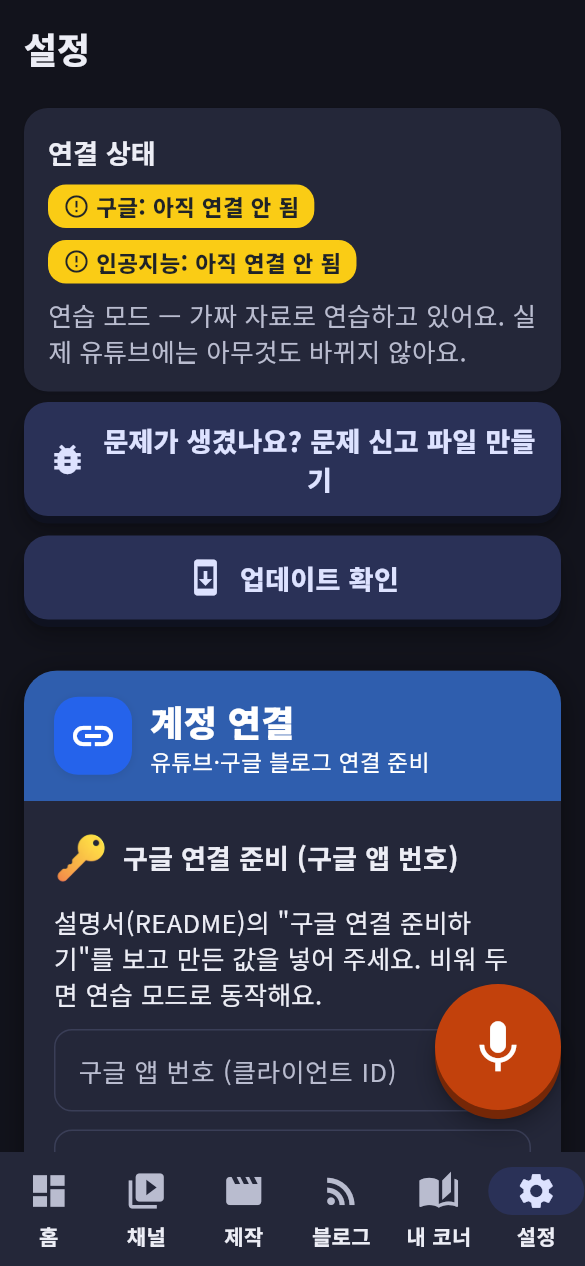
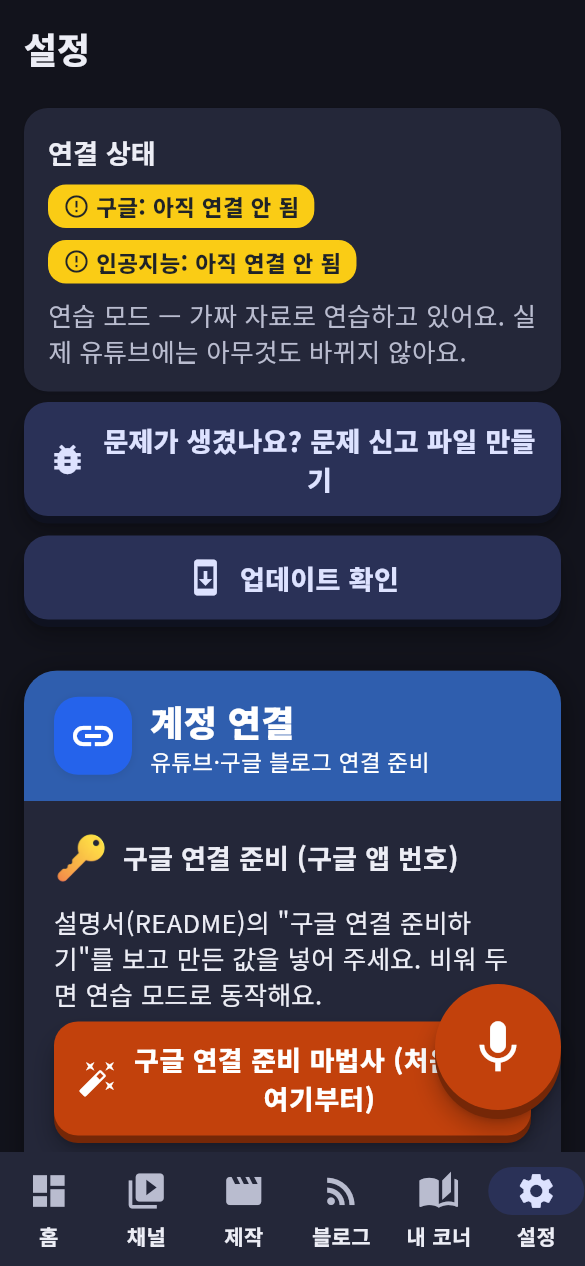
버전 1.2.0: 변경 내역, README(업데이트·구글 마법사·앱 꾸미기·서명 키), 보고서(화면개선 1.2.0·속도), 전후 비교 사진, 진행 상황, 막힌 것
Claude-Session: https://claude.ai/code/session_01F7mUDPiBNSrzb64jZ9gqVQ

Changed region(s): [[0.0923, 0.8009, 0.9231, 0.9242]]

diff --git a/README.md b/README.md
@@ -91,27 +91,32 @@
 
 실제 채널을 연결하려면 **구글 클라우드에서 "클라이언트 ID" 를 한 번 만들어** 앱에 넣어야 해요. 한 번만 하면 됩니다.
 
-1. https://console.cloud.google.com 에 구글 계정으로 들어갑니다.
-2. 위쪽에서 **프로젝트 선택 → 새 프로젝트** → 이름(예: 채널비서) → 만들기.
-3. 왼쪽 메뉴 **API 및 서비스 → 라이브러리** 에서 아래 두 개를 찾아 **사용** 을 누릅니다.
-   - YouTube Data API v3
-   - Blogger API v3
-4. **API 및 서비스 → OAuth 동의 화면**
-   - 사용자 유형: **외부** → 앱 이름, 이메일 입력 → 저장
-   - **테스트 사용자** 에 내가 쓸 구글 계정(채널을 가진 계정)을 모두 추가 ← 중요
-5. **API 및 서비스 → 사용자 인증 정보 → 사용자 인증 정보 만들기 → OAuth 클라이언트 ID**
-   - 애플리케이션 유형: **데스크톱 앱** → 만들기
-   - 나오는 **클라이언트 ID** 와 **클라이언트 보안 비밀** 을 복사
-6. 앱 **설정 → 구글 연결 준비** 에 두 값을 붙여 넣고 저장.
-7. **채널 → 채널 등록 → 구글로 연결** 을 누르면 구글 로그인 창이 열려요. 거기서 로그인하고 권한을 허락하면 끝.
+> **가장 쉬운 방법:** 앱의 **설정 → 계정 연결 → "구글 연결 준비 마법사"** 를 누르세요. 7단계마다 눌러야 할 구글 화면을 바로 열어 주고, 마지막에 받은 JSON 파일을 **"JSON 파일 불러오기"** 로 고르면 번호와 비밀 값이 자동으로 채워져요.
+
+마법사와 같은 순서 (2026년 구글 화면 기준, 메뉴 이름은 **Google Auth Platform**):
+1. https://console.cloud.google.com/projectcreate 에서 새 프로젝트 만들기 (이름 예: 채널비서).
+2. **API 켜기**: "YouTube Data API v3" 와 "Blogger API v3" 를 각각 열어 **사용**.
+3. **Google Auth Platform → 브랜딩**: 앱 이름·내 이메일 입력 → 저장. **대상(Audience)**: 사용자 유형 **외부**.
+4. **클라이언트 → 클라이언트 만들기**: 애플리케이션 유형 **데스크톱 앱** → 만들기 → **JSON 다운로드**.
+   (웹 애플리케이션으로 만들면 앱이 "유형이 달라요, 데스크톱 앱으로 다시 만들어 주세요" 라고 알려 줘요.)
+5. **대상(Audience) → 테스트 사용자**: 유튜브 채널이 있는 내 구글 계정을 추가 ← 중요
+6. 앱 **설정 → 계정 연결 → JSON 파일 불러오기** 로 4번 파일을 고르기 (또는 두 값을 붙여 넣고 저장).
+7. **채널 → 채널 등록 → 구글로 연결** 을 누르면 구글 로그인 창이 열려요. 로그인하고 권한을 허락하면 끝.
 
 📷 `docs/사진/04-google-client.png` — 데스크톱 앱 클라이언트 만들기 화면
 
 알아 두실 점:
 - 앱이 아직 구글 심사를 받지 않은 "테스트" 상태라서 **4단계에 등록한 테스트 사용자만** 연결할 수 있고, 연결은 **7일마다 만료**돼요. 만료 이틀 전부터 아침 브리핑에서 알려 드리니 "다시 연결" 만 누르면 돼요. (구글 심사를 통과하면 만료가 없어져요 — `docs/배포준비.md`)
-- 로그인 창에 "확인되지 않은 앱" 이 보이면 **고급 → (앱 이름)(으)로 이동** 을 누르면 됩니다. 내가 만든 앱이라 안전해요.
+- 로그인 창에 "확인되지 않은 앱" 이 보이면 **고급 → (앱 이름)(으)로 이동** 을 누르면 됩니다. 내가 만든 앱이라 안전해요. (마법사 7단계에 그림으로 있어요)
+- 이 구글 계정에 유튜브 채널이 없으면 앱이 "이 구글 계정에는 아직 채널이 없어요" 라고 알려 주고 **다른 계정으로 연결** 을 고를 수 있어요.
 - 브랜드 계정 채널은 로그인 창에서 채널을 고르는 방식이라, 채널마다 한 번씩 "채널 등록" 을 해야 할 수 있어요.
 - 휴대폰에서는 자료를 보고 확인하는 용도예요. 컴퓨터의 자료를 휴대폰으로 옮기려면 컴퓨터에서 **설정 → 백업 만들기** → 파일을 휴대폰으로 옮김 → 휴대폰에서 **백업에서 복원**.
+
+### 앱 꾸미기
+**설정 → 보기와 듣기 → 앱 꾸미기** 에서 앱 이름, 아이콘(마스코트 5가지 색 또는 내 그림), 색 묶음(기본·바다·숲·노을)을 바꿀 수 있어요.
+- 안드로이드: 기본 아이콘 5가지는 홈 화면 아이콘도 바로 바뀌어요. 내 그림·내 이름은 **"홈 화면에 바로가기 만들기"** 로.
+  1.2.0 으로 처음 업데이트하면 홈 화면 아이콘을 한 번 다시 놓아야 할 수 있어요 (앱 목록에서 끌어다 놓기).
+- 윈도우·맥: 앱 안에 바로 적용되고, **"아이콘 파일 저장"** 을 누르면 바탕화면 바로가기 아이콘을 바꾸는 법을 알려 드려요.
 
 ## 5. 유튜브 하루 사용량(한도)
 

diff --git a/docs/보고/화면개선.md b/docs/보고/화면개선.md
@@ -1,5 +1,49 @@
 # 화면 개선 보고 (디자인·3D)
 
+## 1.2.0 재설계 (사용자 의견 반영)
+
+**받은 의견:** 모든 상자가 똑같은 어두운 테두리 상자라 밋밋하고 잘 안 보인다.
+**바꾼 원칙:** 중요한 것은 크게, 테두리 대신 색을 채운 카드, 영역마다 다른 색 (토스·카카오뱅크·애플 건강·구글 홈·듀오링고·헤드스페이스 참고).
+
+| 무엇 | 전 | 후 |
+|---|---|---|
+| 홈의 중요도 | 같은 크기 상자 6개 + 큰 원형 게이지 2개가 세로로 | **오늘 할 일**(가득 찬 폭·가장 큼·상태 색으로 채움) → 작은 사용량 띠 → 채널·제작(2열 중간, 큰 숫자) → 확인 대기·블로그(2열 작음) → 내 코너(한 줄) |
+| 카드 | 어두운 바탕 + 테두리 | 채운 카드 + 부드러운 그림자. 테두리는 선택·상태(끊긴 채널) 표시에만 |
+| 색 | 모두 같은 카드 색 | 채널 파랑·제작 보라·확인 대기 노랑·블로그 주황·내 코너 초록. 밝은 모드 파스텔, 어두운 모드 중간 채도 (어두운 바탕 위 어두운 상자 없음) |
+| 카드 모양 | 한 가지 | 숫자 카드(채널·제작), 목록 카드(브리핑·수정 요약), 동작 카드(오늘 할 일), 상태 띠(사용량·비용) |
+| 글씨 | 4단계 | 5단계 (큰 숫자 34 / 제목 26 / 묶음 21 / 본문 17 / 작은 글 15) |
+| 간격 | 카드 사이 16 | 24 (1.5배) |
+| 사용량·비용 | 원형 게이지 2개가 한 화면 | 작은 카드 하나에 큰 숫자 2개 + 얇은 막대 |
+| 설정 | 같은 상자 10개 | 색 머리 묶음 카드 5개 (계정 연결·인공지능·자동 작업·보기와 듣기·자료 관리) + 맨 아래 빨간 "모두 지우기" 카드. 묶음 안은 카드 없이 구분선 |
+| 채널 목록 | 작은 그림 + 굵은 초록 테두리 | 썸네일 160 이상, 왼쪽 상태 색 띠, 구독자·영상·조회수를 아이콘과 한 줄로 |
+| 안내 말풍선 | 테두리 상자 | 채운 카드 |
+
+전후 사진(나란히)과 점검표 "가장 먼저 눈에 띄는 요소가 가장 중요한 요소인가": `docs/화면/비교/`
+
+**함께 들어간 것:** 긴급 수정 6가지(`docs/보고/긴급수정.md`), 업데이트 확인, 구글 연결 준비 마법사, 앱 꾸미기(이름·아이콘·색 묶음 4가지).
+
+### 검증 (1.2.0)
+- 테스트 188개 모두 통과 (1.1.0 의 126개 그대로 + 긴급 수정 15 + 업데이트 13 + 재설계 12 + 구글 마법사 7 + 앱 꾸미기 15). 형식·린트 검사 통과, 리눅스 빌드 성공.
+- 대비: 영역 색 7가지 × 4가지 테마(밝음·어두움·고대비 2가지) 글자 4.5:1 이상, 색 묶음 4가지 × 밝음·어두움 버튼 글자 4.5:1 이상.
+- 가장 작은 화면(320×568) + 아주 큰 글씨 + 어두운 모드·고대비: 아래 메뉴 6개·하위 화면·구글 마법사 7단계 잘림 없음 (아주 큰 글씨나 좁은 화면에서는 2열이 자동으로 위아래로).
+- 움직임 줄이기: 새 막대·타일도 움직임 시간 0.
+- 테스트로 확인한 배치: 오늘 할 일이 홈에서 가장 큰 카드, 같은 크기 상자 3개 이상이 한 줄에 없음(넓은 화면 포함), 설정 묶음 순서와 빨간 카드 위치, 채널 썸네일 160 이상·숫자 한 줄.
+
+### 속도 (같은 기계에서 1.1.0 과 번갈아 4번씩, 중간값)
+| | 시작 | 메뉴 전환 | 상세 화면 열고 닫기 |
+|---|---|---|---|
+| 1.1.0 | 148ms | 96ms | 162ms |
+| 1.2.0 | 127ms | 94ms | 165ms |
+
+처음에는 메뉴 전환이 약 120ms 로 **느려졌었습니다.** 원인은 긴급 수정에서 열어 둔 탭을 살려 두면서 화면이 바뀔 때마다 숨은 탭까지 다시 그리던 것이었고, 숨은 탭은 다시 그리지 않도록 바꿔 1.1.0 과 같은 수준이 되었습니다. 채널 카드의 색 띠도 높이 계산 없이 겹쳐 그리도록 바꿨습니다.
+
+### 못 한 것
+- 실제 기기에서 본 모습·안드로이드 홈 화면 아이콘 바뀜은 기기로 확인하지 못했습니다 (BLOCKERS 7).
+
+---
+
+## 1.1.0 화면 개선
+
 기능은 그대로 두고, 처음 쓰는 분과 어르신도 설명 없이 쓸 수 있게 화면을 바꿨습니다. 기존 테스트 104개는 하나도 고치지 않고 모두 통과하며, 화면 검증 테스트 9개와 추가 기능 테스트 13개를 더했습니다 (총 126개).
 
 ## 바뀐 것

diff --git a/PROGRESS.md b/PROGRESS.md
@@ -23,19 +23,22 @@
 
 - 추가 기능(7-1) 완료: 설명 템플릿, 일괄 수정 미리보기, 주목할 영상, 검색어 추천, 게시 달력, 썸네일 비교 선택 (버전 1.1.0, 테스트 126개)
 
-## 3차 지시서 (긴급 수정·업데이트 방식·화면 재설계)
-- 완료: 0-1 긴급 수정 6가지 + 테스트 15개 (docs/보고/긴급수정.md), main 병합
-- 완료: 0-2 업데이트 방식 (설정 → 업데이트 확인, GitHub Releases, 윈도우 설치 프로그램, 안드로이드 서명 키, 자료 버전 6, 1.1.0 실제 자료로 업그레이드 테스트 13개)
-- 다음: 6-1 화면 재설계 (크기로 중요도, 채운 카드, 파스텔 타일, 설정 묶음 카드, 채널 목록) → 전후 비교 사진
-- 그다음: 구글 연결 마법사(JSON 불러오기), 앱 꾸미기, 최종 검증, 버전 1.2.0 태그
+## 3차 지시서 (1.2.0) — 완료
+- 0-1 긴급 수정 6가지 + 테스트 (docs/보고/긴급수정.md)
+- 0-2 업데이트 방식: 설정 → 업데이트 확인(누를 때만·설치 전 백업), GitHub Releases 공개(태그 v*), 윈도우 설치 프로그램, 안드로이드 서명 키(비밀 값), 자료 버전 6, 1.1.0 실제 자료로 업그레이드 테스트
+- 6-1 화면 재설계 (docs/화면/비교, docs/보고/화면개선.md 맨 위)
+- 구글 연결 준비 마법사 + JSON 불러오기, 앱 꾸미기
+- 검증: 테스트 188개, 린트·형식, 리눅스 빌드, 속도 1.1.0 과 같음
+- 버전 1.2.0+7, main 병합, 태그 v1.2.0 → Releases
 
 ## 지금 하던 것
-- 6-1 화면 재설계
+- 없음
 
 ## 다음에 할 일 (사용자 쪽)
-1. README 의 "구글 연결 준비하기" 로 실제 계정 연결
-2. 실제 사용하면서 문제가 생기면 "문제 신고" 파일로 개선 요청
-3. 판매를 원하면 docs/배포준비.md
+1. 앱의 설정 → 계정 연결 → "구글 연결 준비 마법사" 로 실제 계정 연결
+2. (안드로이드를 쓰면) README "안드로이드 서명 키" 대로 GitHub 비밀 값 넣기 — BLOCKERS 6
+3. 실제 사용하면서 문제가 생기면 "문제 신고" 파일로 개선 요청
+4. 판매를 원하면 docs/배포준비.md
 
 ## 다음에 할 일 (개발 쪽, 원하면)
 - 힉스필드 공식 API 확인 후 주소·요금 맞추기 (BLOCKERS 3)

diff --git a/BLOCKERS.md b/BLOCKERS.md
@@ -9,3 +9,5 @@
 | 3 | 힉스필드 실제 API 의 주소·형식을 공식 문서로 확인하지 못해, 흔한 형식으로 만들어 두고 연습용 가짜로만 확인했습니다. | 힉스필드 키를 넣고 "연결 테스트"를 눌러 보세요. 실패하면 "문제 신고" 파일을 Claude에게 보여 주시면 주소를 맞춰 드립니다. |
 | 4 | 피그마 연결은 피그마 개발자 앱(클라이언트 ID)이 있어야 해서 실제로는 확인하지 못했습니다. 돌아오는 주소는 `http://127.0.0.1:53682/callback` 으로 등록해야 합니다. | 피그마 개발자 설정에서 앱을 만들고 위 주소를 등록한 뒤 앱의 도구 연결 화면에 넣어 주세요. |
 | 5 | 구글 비즈·브루는 공식 API 가 없어 첫 버전에서는 "준비 중" 으로만 표시합니다 (지시서대로). | 없음 |
+| 6 | 안드로이드 업데이트(덮어쓰기 설치)는 모든 버전이 같은 서명 키여야 하는데, 서명 키 파일은 저장소에 넣으면 안 되어서 만들지 않았습니다. 지금 GitHub 가 만드는 안드로이드 파일은 매번 테스트용 서명입니다. | README "안드로이드 서명 키" 대로 키를 한 번 만들고 GitHub 비밀 값 4개를 넣어 주세요. 그 뒤로는 자동으로 같은 키로 만들어져 업데이트가 됩니다. (1.1.0 이하 안드로이드 앱은 한 번만 백업 → 지우고 새로 설치 → 되살리기) |
+| 7 | 안드로이드 홈 화면 아이콘 바꾸기·바로가기·업데이트 설치 화면, 윈도우 설치 프로그램, 맥 앱 바꿔 끼우기는 이 개발 환경에서 실제 기기로 확인하지 못했습니다 (GitHub Actions 빌드로만 확인). | 새 버전을 설치해 써 보시고, 안 되면 "문제 신고" 파일을 보내 주세요. |

diff --git a/app/CHANGELOG.md b/app/CHANGELOG.md
@@ -1,5 +1,16 @@
 # 변경 내역
 
+## 1.2.0
+- 고친 것: 메뉴를 오가거나 자료가 새로 고쳐질 때 스크롤이 맨 위로 튀던 문제, 실패 창의 "다시 시도"를 누르면 오류가 나던 문제
+- 실패는 어느 단계(로그인·연결 정보·채널 목록·영상 목록)에서 났는지 로그에 남김. 오류 창 안에서 바로 "문제 신고 파일 만들기"
+- 채널이 없는 구글 계정이면 안내 + "다른 계정으로 연결", 영상이 없는 채널도 등록
+- 연습 모드 띠 대신 구글·인공지능 연결 상태를 따로 표시. 실제 채널이 생기면 연습 채널은 숨김 (설정 → 연습 자료 보기)
+- 업데이트: 설정 맨 위 "업데이트 확인" (누를 때만 받고, 설치 전에 자동 백업). 새 버전 설치 = 덮어쓰기, 설정은 그대로
+- 화면 새 단장: 크기로 중요도 (오늘 할 일이 가장 크게), 영역별 색 타일, 테두리 대신 채운 카드, 설정 묶음 카드 5개, 큰 썸네일 채널 카드
+- 구글 연결 준비 마법사 (7단계, JSON 파일 불러오기, 7일 만료·확인되지 않은 앱 안내 그림)
+- 앱 꾸미기: 앱 이름, 아이콘(5가지 색·내 그림, 안드로이드 홈 화면 아이콘), 색 묶음 4가지
+- 윈도우는 설치 프로그램으로 설치 (시작 메뉴·바탕화면 바로가기)
+
 ## 1.1.0
 - 화면 새 단장: 큰 3D 타일 홈, "오늘 할 일" 카드, 비서 마스코트, 원형 게이지, 상태 색(초록·파랑·노랑·빨강) 통일
 - 밝게·어둡게·또렷하게(고대비) 보기, 움직임 줄이기, 누를 때 진동·소리

diff --git a/docs/화면/비교/README.md b/docs/화면/비교/README.md
@@ -1,6 +1,6 @@
 # 화면 재설계 전후 비교
 
-왼쪽 = 전 (1.1.0), 오른쪽 = 후 (재설계). 모두 390×844 휴대폰 화면, 밝음·어두움 두 가지.
+왼쪽 = 전 (재설계 직전: 1.1.0 + 긴급 수정), 오른쪽 = 후 (1.2.0). 모두 390×844 휴대폰 화면, 밝음·어두움 두 가지.
 
 | 화면 | 밝음 | 어두움 |
 |---|---|---|
